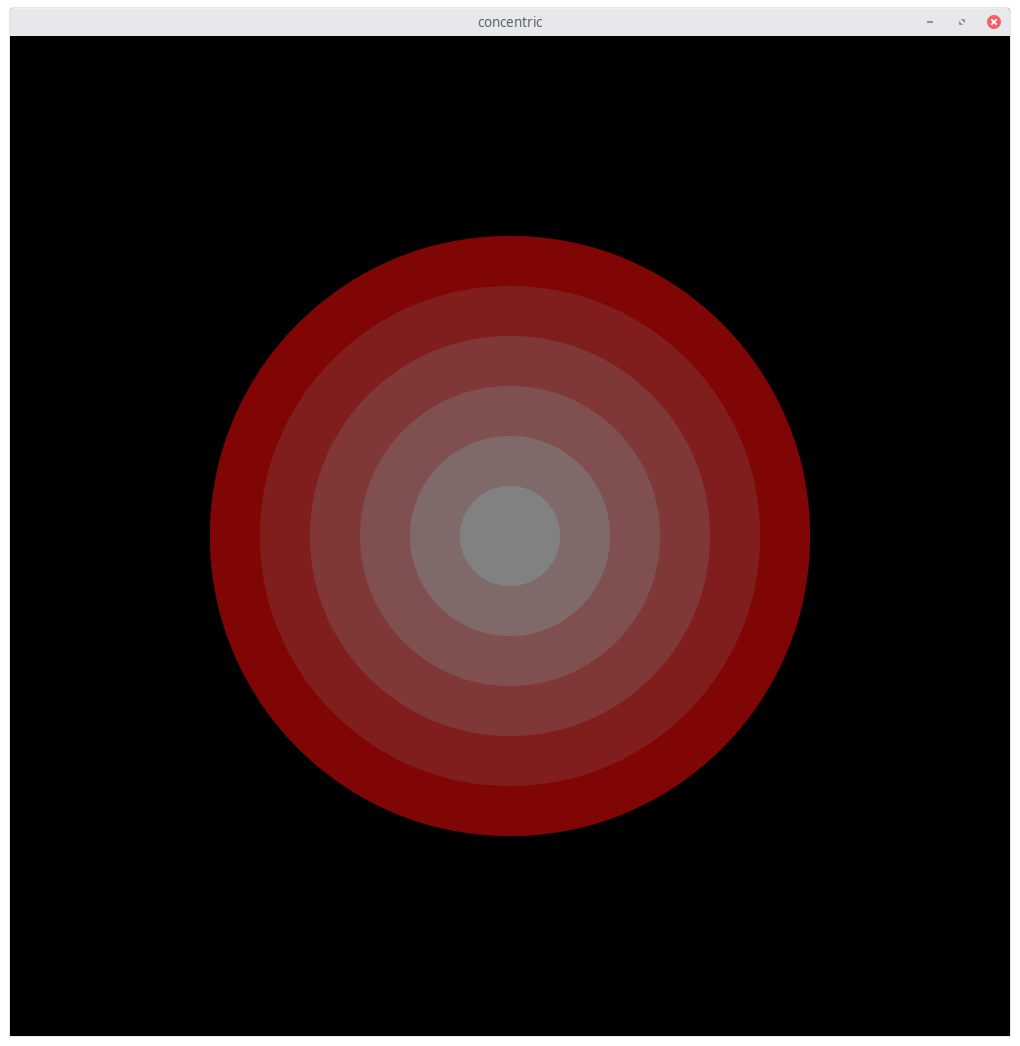
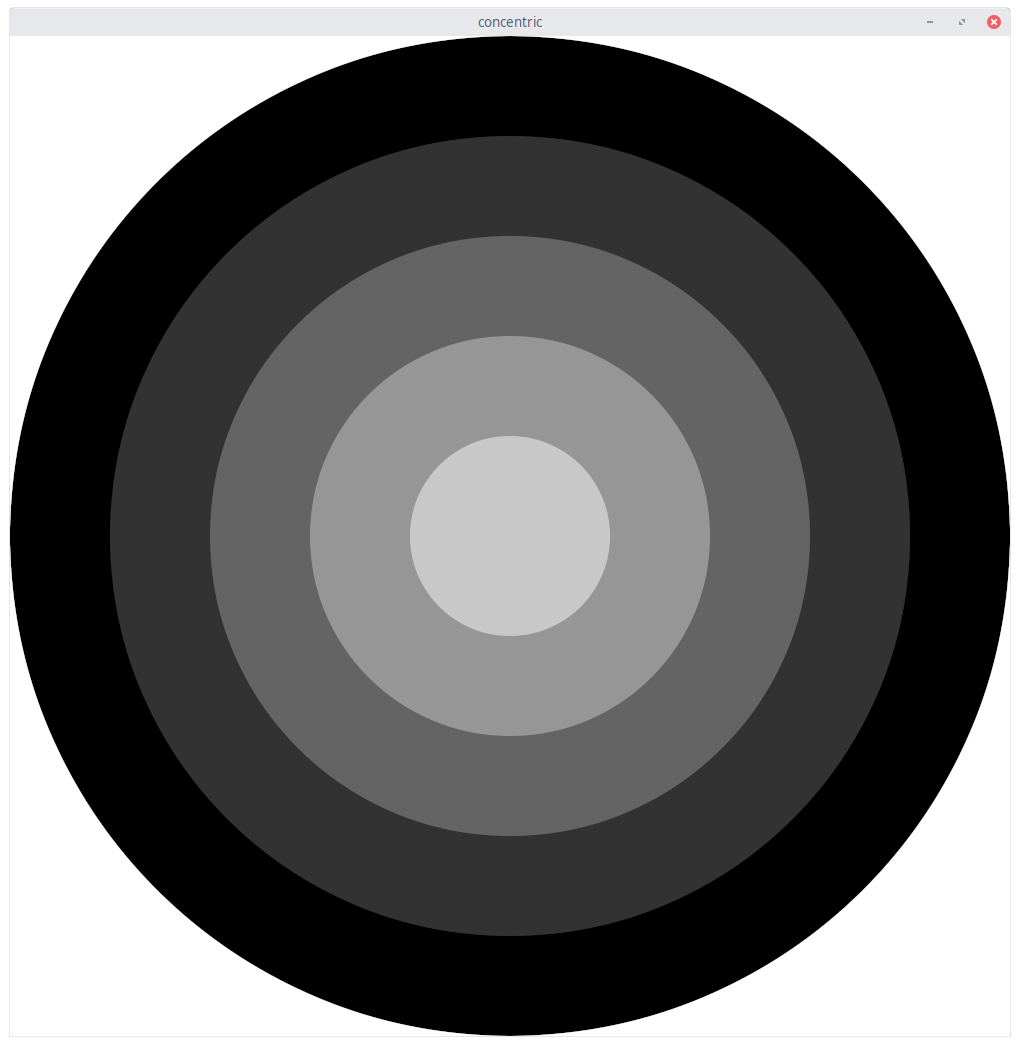
update conentric client

diff --git a/concentric/main.go b/concentric/main.go
@@ -8,22 +8,21 @@ import (
 	"gioui.org/app"
 	"gioui.org/io/system"
 	"gioui.org/unit"
-	"github.com/ajstarks/giocanvas"
+	gc "github.com/ajstarks/giocanvas"
 )
 
 func concentric(s string, w, h int) {
 	width, height := float32(w), float32(h)
 	win := app.NewWindow(app.Title(s), app.Size(unit.Px(width), unit.Px(height)))
-	r := float32(30)
-	g := uint8(5)
+
 	for e := range win.Events() {
 		if e, ok := e.(system.FrameEvent); ok {
-			canvas := giocanvas.NewCanvas(width, height, e.Config, e.Queue, e.Size)
-			canvas.CenterRect(50, 50, 100, 100, color.RGBA{0, 0, 0, 255})
-			for i := 0; i < 6; i++ {
-				canvas.Circle(50, 50, r, color.RGBA{128, g, g, 255})
-				r -= 5
-				g += 25
+			canvas := gc.NewCanvas(width, height, e.Config, e.Queue, e.Size)
+			canvas.Background(gc.ColorLookup("white"))
+			var r float32 = 50
+			for g := uint8(0); g < 250; g += 50 {
+				canvas.Circle(50, 50, r, color.RGBA{g, g, g, 255})
+				r -= 10
 			}
 			e.Frame(canvas.Context.Ops)
 		}
